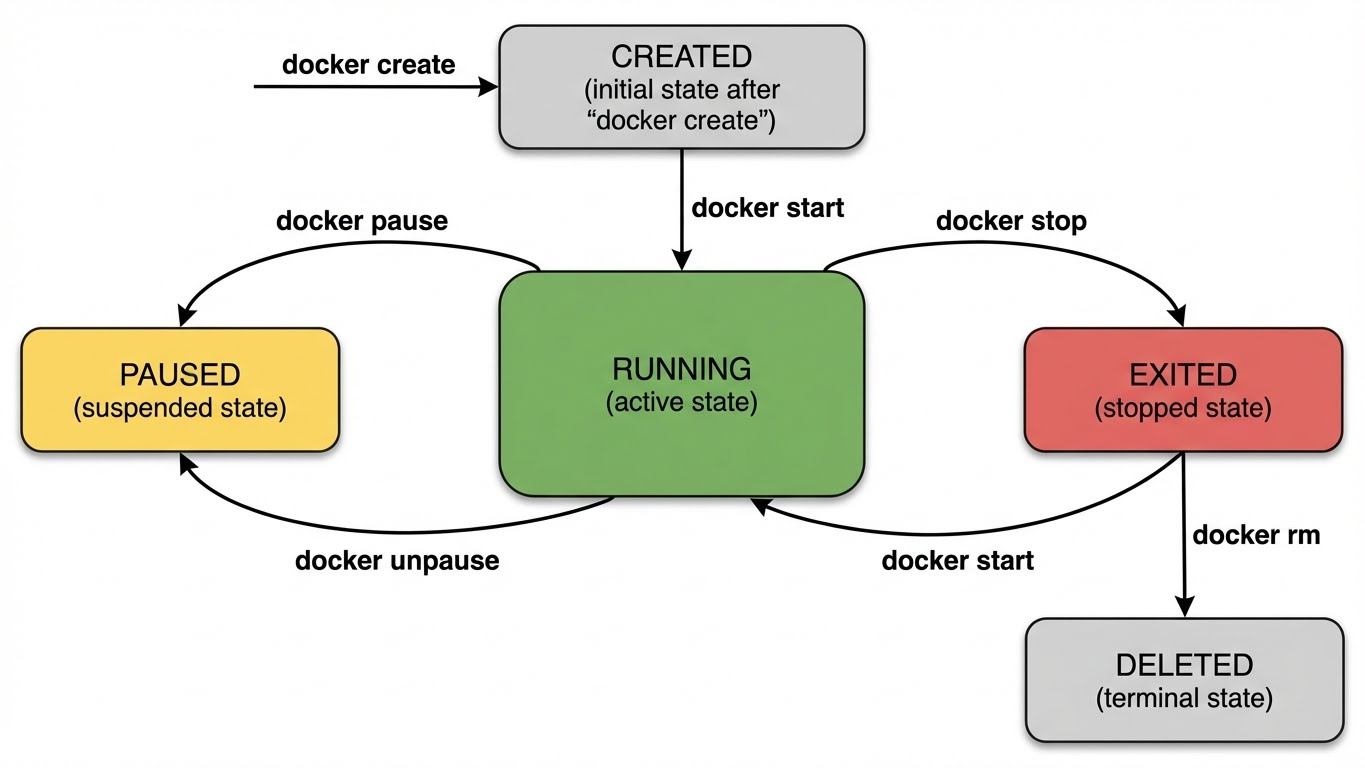
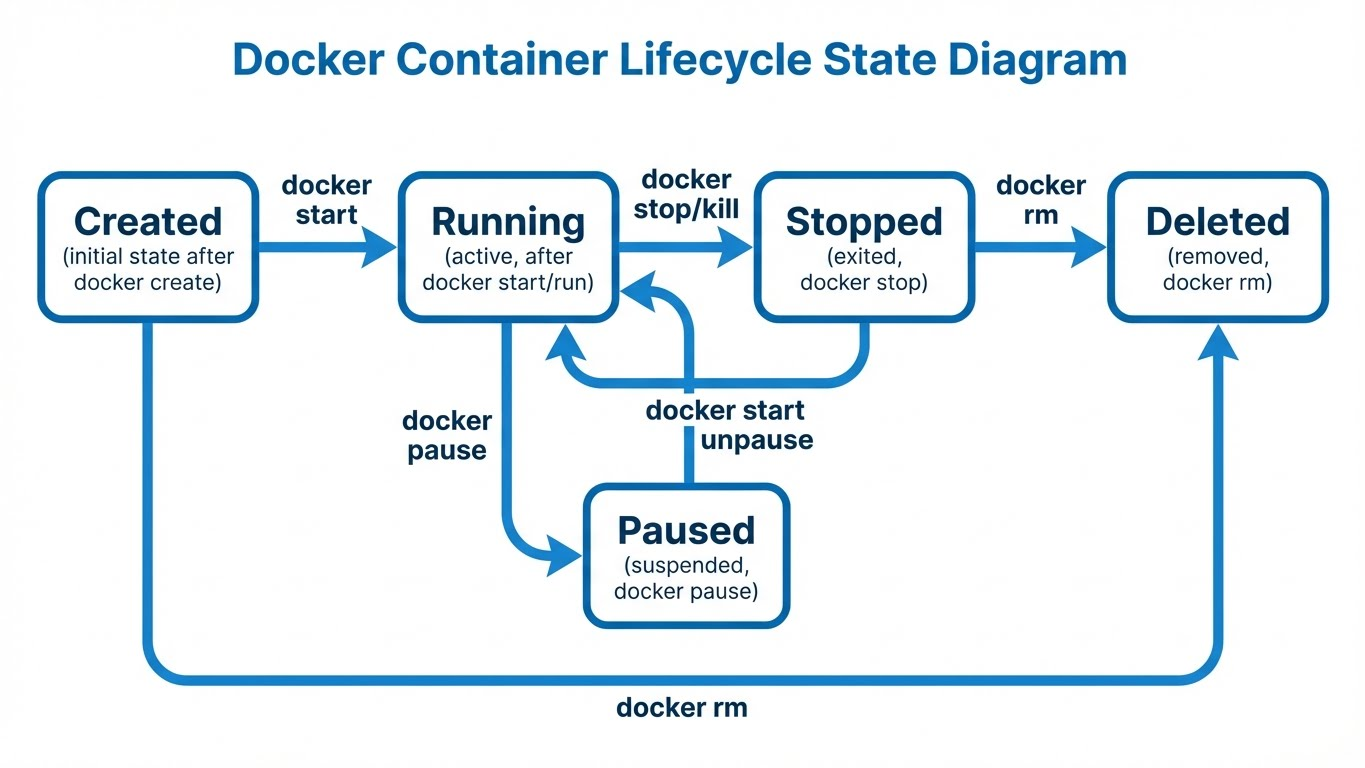
docs(formations): Add 13 Napkin.ai diagrams Batch 8
New diagrams:
- ad-forest-structure: Windows Active Directory forest hierarchy
- aws-iam-authorization-flow: IAM authorization decision flow
- cloud-evolution-timeline: Cloud computing evolution
- cyber-kill-chain: Security attack lifecycle
- ec2-instance-families: AWS EC2 instance types
- k8s-worker-node-components: Kubernetes worker components
- pki-certificate-trust-chain: PKI certificate hierarchy
- rag-pipeline-architecture: AI RAG pipeline flow
- tcp-ip-model-layers: Networking TCP/IP layers
- terraform-workflow-cycle: Terraform workflow
- vm-vs-containers-architecture: VM vs containers comparison

Replaced (better quality):
- docker-container-lifecycle
- k8s-control-plane-architecture

🤖 Generated with [Claude Code](https://claude.com/claude-code)

diff --git a/docs/formations/ai-engineering/04-module.md b/docs/formations/ai-engineering/04-module.md
@@ -17,6 +17,8 @@ La solution n'est pas de réentraîner le modèle (trop cher), mais de lui donne
 
 ## 1. Le Principe du RAG
 
+![Architecture Pipeline RAG](../../assets/diagrams/rag-pipeline-architecture.jpeg)
+
 C'est comme donner un livre ouvert à un étudiant pendant l'examen.
 1.  **Question** : "Comment configurer Postfix ?"
 2.  **Recherche** : Le script cherche dans votre documentation les paragraphes qui parlent de Postfix.

diff --git a/docs/formations/hacking-mastery/01-module.md b/docs/formations/hacking-mastery/01-module.md
@@ -59,6 +59,9 @@ Vos VMs doivent être en **Réseau Host-Only** (Privé hôte) ou **NAT Network**
 *   **Script Kiddie** : Débutant qui lance des outils sans comprendre.
 
 ### Le Cycle d'Attaque (Kill Chain)
+
+![Cyber Kill Chain](../../assets/diagrams/cyber-kill-chain.jpeg)
+
 1.  **Reconnaissance** (OSINT, Scan).
 2.  **Weaponization** (Préparer l'exploit/payload).
 3.  **Delivery** (Envoyer le mail, accéder au port).

diff --git a/docs/formations/kubernetes-mastery/01-module.md b/docs/formations/kubernetes-mastery/01-module.md
@@ -131,6 +131,8 @@ ETCDCTL_API=3 etcdctl snapshot restore /backup/etcd-snapshot.db \
 
 ![Kubernetes Worker Node Architecture](../../assets/diagrams/k8s-worker-node-architecture.jpeg)
 
+![Kubernetes Worker Node Components](../../assets/diagrams/k8s-worker-node-components.jpeg)
+
 ### 3.2 Structure d'un Pod
 
 ![Kubernetes Pod Structure](../../assets/diagrams/formation-k8s-pod-structure.jpeg)

diff --git a/docs/formations/docker-mastery/01-module.md b/docs/formations/docker-mastery/01-module.md
@@ -23,6 +23,8 @@ tags:
 
 ![Docker Architecture](../../assets/diagrams/formation-docker-architecture.jpeg)
 
+![VM vs Containers Architecture](../../assets/diagrams/vm-vs-containers-architecture.jpeg)
+
 | Aspect | VM | Container |
 |--------|-----|-----------|
 | **Startup** | Minutes | Secondes |

diff --git a/docs/formations/pki-certificates/02-module.md b/docs/formations/pki-certificates/02-module.md
@@ -77,6 +77,8 @@ graph TD
 
 ![PKI Certificate Hierarchy](../../assets/diagrams/security-pki-hierarchy.jpeg)
 
+![PKI Certificate Trust Chain](../../assets/diagrams/pki-certificate-trust-chain.jpeg)
+
 ### Pourquoi des Intermédiaires ?
 
 - **Sécurité** : La Root CA reste offline (air-gapped)

diff --git a/docs/formations/aws-fundamentals/01-module.md b/docs/formations/aws-fundamentals/01-module.md
@@ -119,6 +119,8 @@ graph TD
 
 ### 2.2 Service Control Policies (SCPs)
 
+![Flux d'Autorisation IAM](../../assets/diagrams/aws-iam-authorization-flow.jpeg)
+
 Les SCPs définissent les permissions maximales pour les comptes d'une OU :
 
 ```json

diff --git a/docs/formations/windows-mastery/11-active-directory-core.md b/docs/formations/windows-mastery/11-active-directory-core.md
@@ -26,6 +26,8 @@ Ce module couvre les fondamentaux d'Active Directory :
 
 ## 1. Architecture Active Directory
 
+![Structure Forest Active Directory](../../assets/diagrams/ad-forest-structure.jpeg)
+
 ### 1.1 Concepts Fondamentaux
 
 ```

diff --git a/docs/formations/terraform-aci/01-module.md b/docs/formations/terraform-aci/01-module.md
@@ -83,6 +83,8 @@ graph TB
 
 ## 2. Concepts Fondamentaux Terraform
 
+![Cycle Workflow Terraform](../../assets/diagrams/terraform-workflow-cycle.jpeg)
+
 ### 2.1 Architecture Terraform
 
 ```mermaid

diff --git a/docs/formations/aws-fundamentals/02-module.md b/docs/formations/aws-fundamentals/02-module.md
@@ -63,6 +63,8 @@ graph TD
 
 ### 1.2 Familles d'Instances
 
+![Familles d'Instances EC2](../../assets/diagrams/ec2-instance-families.jpeg)
+
 ```mermaid
 graph LR
     subgraph "Instance Families"

diff --git a/docs/formations/linux-mastery/09-reseau.md b/docs/formations/linux-mastery/09-reseau.md
@@ -28,6 +28,8 @@ tags:
 
 ## 1. Modèle TCP/IP
 
+![Modèle TCP/IP Layers](../../assets/diagrams/tcp-ip-model-layers.jpeg)
+
 ```mermaid
 graph TD
     subgraph "Modèle TCP/IP"

diff --git a/docs/formations/cloud-fundamentals/01-module.md b/docs/formations/cloud-fundamentals/01-module.md
@@ -121,6 +121,8 @@ mindmap
 
 ## 3. Évolution Historique
 
+![Évolution vers le Cloud](../../assets/diagrams/cloud-evolution-timeline.jpeg)
+
 ### 3.1 Timeline
 
 ```mermaid
